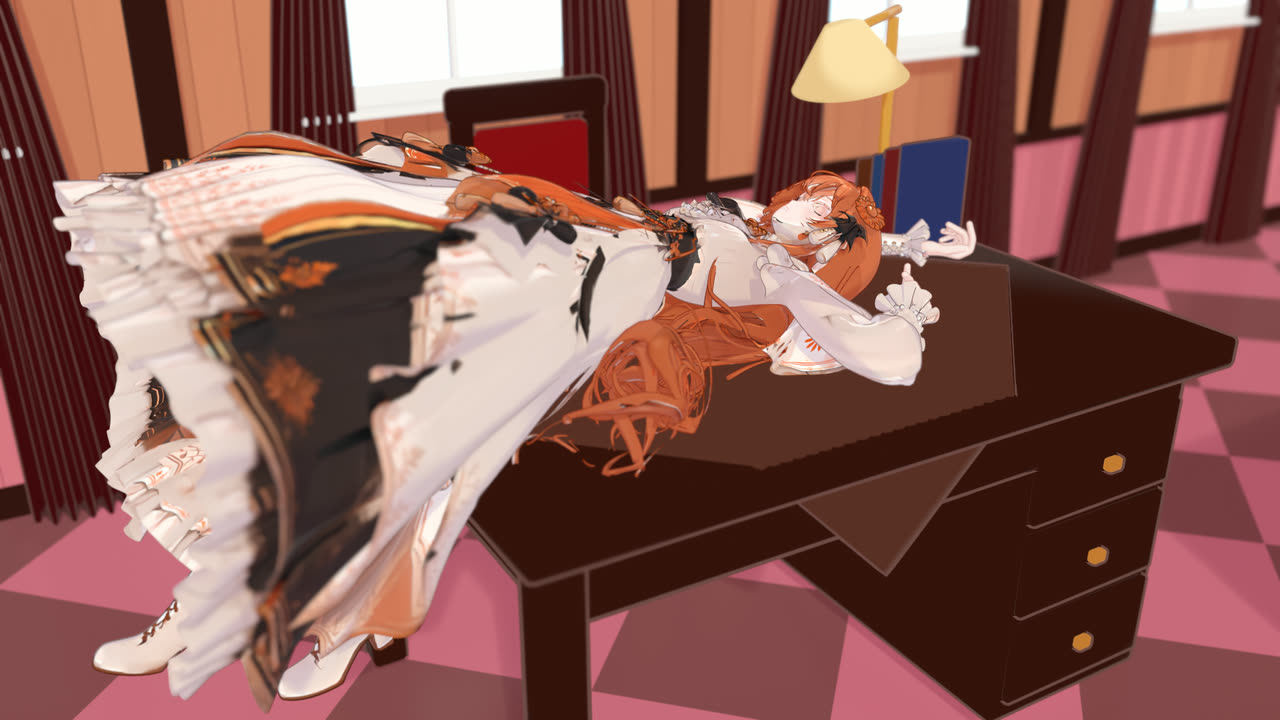
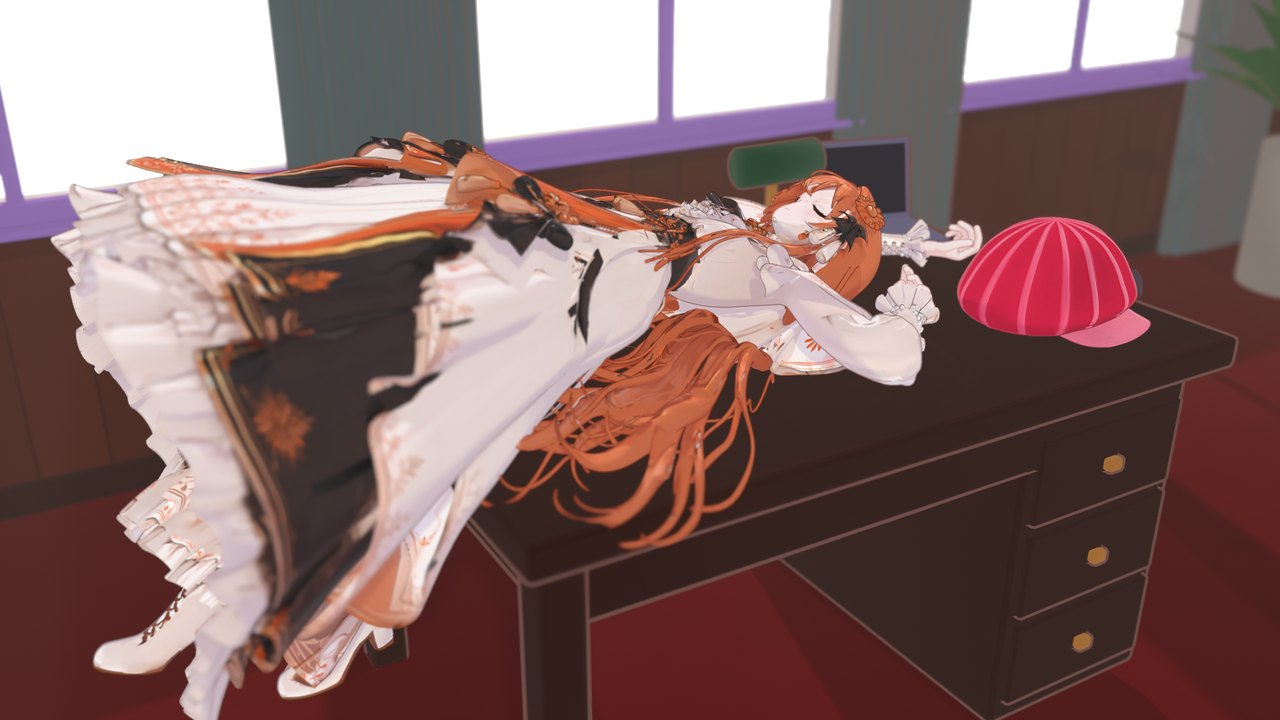
README: the updated Chika Dance (v4) as the demo, v4 stills, a Simplified Chinese README
Claude-Session: https://claude.ai/code/session_01GGEw2pDDRAVnvX8yK2C6bs

diff --git a/README.zh-CN.md b/README.zh-CN.md
@@ -1,0 +1,176 @@
+# mmdance：让任意 Mixamo 骨骼的 Blender 角色跳 MMD
+
+[![tests](https://github.com/starryark/mmdance/actions/workflows/tests.yml/badge.svg)](https://github.com/starryark/mmdance/actions/workflows/tests.yml)
+[![License: MIT](https://img.shields.io/badge/license-MIT-blue.svg)](LICENSE)
+[![Blender 5.2+](https://img.shields.io/badge/Blender-5.2%2B-orange.svg)](https://www.blender.org/)
+[![Python 3.11+](https://img.shields.io/badge/python-3.11%2B-blue.svg)](requirements.txt)
+
+[English](README.md) | **简体中文**
+
+**mmdance 让绑定了 Mixamo 骨骼的角色在 Blender 里跳 MikuMikuDance（MMD）舞蹈。** 它适用于 Tripo、Meshy 等 AI 生成（图生 3D）的角色，Mixamo 和 AccuRig 绑定的角色，也可以通过骨骼名映射用于你自己的骨架。你只需提供角色的 `.blend` 和一套 MMD 动作数据包：VMD 舞蹈动作、VMD 镜头、表情 VMD 和歌曲。它会搭好动画场景，在无界面（headless）模式下按一份配置文件渲染出完整的 1080p 视频。每一步的结果都以其输入为键缓存，重新构建时只重算改动过的部分，其余结果原样复现。
+
+## 演示
+
+https://github.com/user-attachments/assets/532d0b6d-a07f-4ca3-ac91-04a43aa5a862
+
+*[projects/claude_chika_v3](projects/claude_chika_v3)：一个 Tripo 生成的二次元角色身穿多层舞会礼服，跳 akomni 的 MMD 动作《チカっとチカ千花っ♡》（94 秒），使用动作包自带的镜头、表情和歌曲，场景是阳光从窗外照进来的学生会室。`build.py` 从未经改动的角色文件生成整个场景：重定向后的舞蹈、物理模拟的礼服和逐缕模拟的头发、按手绘比例调整指关节的双手、重建为几何体的脸（能张开的嘴、分层的眼睛、由表情轨道驱动的形态键），以及最后被抛向镜头的红帽子。此处为 1080p 渲染的 10 MB 以内压缩版；借物表见 [该项目](projects/claude_chika#credits)。*
+
+| | | |
+| --- | --- | --- |
+| ![Blender 中的 MMD 舞蹈：Tripo 生成的橙色长发二次元角色闭着眼躺在阳光照进的房间里的书桌上唱歌，身旁放着一顶红帽子，白黑相间的多层舞会礼服垂在桌边](docs/media/claude-chika-desk.jpg) | ![使用 Mixamo 骨骼的角色在舞蹈中踢出一条腿并伸手指向前方，模拟的裙摆和外层裙在转身后扬起](docs/media/claude-chika-kick.jpg) | ![舞蹈接近尾声时，角色在阳光照进的房间里双手比心微笑，脸部已重建为几何体，长发垂落在礼服上](docs/media/claude-chika-smile.jpg) |
+
+*开场镜头：躺在书桌上（书桌是布料碰撞体），身旁放着帽子；踢腿时的裙摆物理；结尾的比心，使用重建后的脸。这段视频的第一个版本来自 [projects/claude_chika](projects/claude_chika)（管线的回归基准），见 [0.1.0 版本发布](https://github.com/starryark/mmdance/releases/tag/v0.1.0)。*
+
+### 两个角色、从参考视频解算的镜头：DreamWings
+
+https://github.com/user-attachments/assets/26e7c1ac-1053-4331-812b-8187a1a2b12a
+
+*[projects/dreamwings](projects/dreamwings)：两个 Tripo 生成的角色 Claude 和 ChatGPT 先后登场，在 Anthropic 大厅里跳鸭梨P 的 MMD 动作《梦的翅膀受了伤》（15 秒，即这个梗视频的编舞）。大厅从它自己的 `.blend` 追加进来，并围绕舞蹈缩放。镜头从梗视频的参考视频逐帧解算，连甩镜也一并还原，两位舞者的交接就在一次连续的甩镜之中。两次构建都从未改动的角色文件开始：重定向的舞蹈、物理模拟的礼服、头发、袖子和尾巴、面部表情，以及运动模糊。此处为 1080p 渲染的 10 MB 以内压缩版；借物表见 [该项目](projects/dreamwings#credits-借物表)。*
+
+## 功能
+
+如果你有一个 AI 生成或自动绑定的二次元角色，想让它跳一支 MMD/VMD 舞蹈，这套管线就是为此而做的。它把 MMD 动作重定向到非 MMD 骨架上，加上裙摆和头发物理，驱动面部表情，并用原版镜头和音乐渲染。具体包括：
+
+- **动作重定向。** VMD 通过 mmd_tools 导入到一副按你的骨架比例搭建的代理 MMD 骨架上，再在世界空间中映射到你的骨骼，上臂与前臂共享扭转骨。MMD 的脚部 IK 由解析式的两骨骼腿部 IK 求解。
+- **MMD 镜头**（`camera.vmd`）；原版镜头不适合你的模型时，可以在某些片段换用自定义镜头。
+- **二次动态（物理）**：裙摆、多层礼服和围裙、长发（整片或逐缕）以及尾巴。骨链自动铺设到网格中，用基于位置的求解器模拟：
+  - 带角度限制的关节链，类似 MMD 的刚体裙摆和 DynamicBone；
+  - 根据身体测量生成的胶囊碰撞体；
+  - 家具的盒形碰撞体与非弹性接触。
+
+  结果烘焙为关键帧，最终场景不依赖任何插件。
+- **面部表情**，来自 VMD 的表情（morph）轨道。可以驱动形态键；对于五官*画在贴图上*的脸（图生 3D 角色常见），则用从这张贴图本身生成的表情图集来驱动。
+- **自动绑定网格的修复：**
+  - 根据手指骨骼，把粘连成团的手指重建为真正的手，并把指关节移到手绘的比例；
+  - 把头发从衣服上撕开，修复带着衣服材质的发卷；
+  - 靴子的刚性权重；
+  - 清理左右腿之间串扰的权重；
+  - 没有权重的顶点。
+- **舞台、灯光、渲染**（EEVEE），可断点续渲的并行渲染，以及配上歌曲的视频编码。画面与声音一起淡出。
+  - 从另一个 `.blend` 追加并围绕舞蹈缩放的场景、按轨道文件逐帧驱动的镜头（例如从参考视频解算）、跟随镜头的主光、运动模糊。
+  - 在构建好的角色上运行你自己的项目代码（重建的脸、道具、袖子），多个项目之间按路径共享。
+  - 可拿到云 GPU 上渲染的场景打包副本、把两个角色的渲染剪进同一个视频，以及用于分享的压缩版。
+
+一切都由 `build.py` 从你未经改动的角色文件生成。每个阶段的结果都以输入为键缓存，重新构建时只重算改动过的部分。
+
+## 现状
+它最初只为一个作品而写：一个 Tripo 生成、身高 1 米的卡通角色跳一段 94 秒的 MMD 动作（[projects/claude_chika](projects/claude_chika)；视频见 [0.1.0 版本发布](https://github.com/starryark/mmdance/releases/tag/v0.1.0)）。引擎（重定向、镜头、骨链与物理、面部状态、渲染、编码）是通用的、由配置驱动的，并且至今仍能精确复现那个作品的输出：每一份缓存、面部图集和渲染帧都一致。通用路径也在同一角色上做过冒烟测试：默认舞台、跟随镜头、形态键表情、不做修复、从舞蹈中段开始的帧范围。
+
+此后它又用三个 Tripo 角色、两支舞做了视频。每个新模型都加入了它需要的选项，全部按需开启：
+- [projects/deepseek_chika](projects/deepseek_chika)：一个鲸鱼女仆，有围裙和尾巴，手和脖子共用同一个材质。
+- [projects/chatgpt_chika](projects/chatgpt_chika)：一个龙娘，有翅膀、尾巴和喇叭袖。项目代码模拟袖子并扇动翅膀。
+- [projects/claude_chika_v3](projects/claude_chika_v3)：重做的第一个作品（即上面的演示），头发逐缕模拟、礼服摆动更沉稳、按手绘比例调整指关节，脸重建为几何体。
+- [projects/dreamwings](projects/dreamwings)：第二支舞，一段 15 秒的动捕梗视频。Claude 和 ChatGPT 在从另一个 `.blend` 追加的场景里轮流登场，镜头从参考视频解算而来。
+
+换一套新服装时，要调骨链格点（lattice）的高度和物理参数；换一支新舞，要调头发。面部图集需要为每张手绘的脸测量引导曲线；画在写实雕刻头部上的手绘脸最好重建为几何体（项目代码见 [projects/claude_chika_v3](projects/claude_chika_v3)，尚未成为引擎模式）。房间搭建脚本和镜头解算属于各个项目；从另一个 `.blend` 追加的场景和解算好的镜头轨道则通过配置接入。构建在 Windows 11 + Blender 5.2 上完成。DreamWings 的帧是在 Linux 云 GPU 上，用打包后的构建场景渲染的。
+
+## 环境要求
+- **Blender 5.2+**，并安装 **MMD Tools** 扩展（编辑 › 偏好设置 › 获取扩展 › 搜索 "MMD Tools"；测试版本 4.5.14）。
+- **Python 3.11+**（系统 Python），安装 `numpy scipy opencv-python scikit-image pillow matplotlib`。手部和面部图集的生成（Blender 自带的 Python 缺少这些库）、视频编码和质检都用它运行。
+- **ffmpeg**，需在 `PATH` 中。
+
+```
+pip install -r requirements.txt
+```
+
+## 快速开始
+```
+python -m mmdance new projects/my_dance          # 复制模板
+#   character/  <- 绑好骨骼的 .blend（Mixamo 骨骼名、T-pose、Z 轴向上、面朝 -Y）
+#   source/     <- motion.vmd, camera.vmd, (facial.vmd), song.wav
+python -m mmdance inspect projects/my_dance/character/character.blend   # 检查骨架 + 测量高度 + 参数建议
+#   编辑 projects/my_dance/project.toml
+python -m mmdance build  projects/my_dance/project.toml
+python -m mmdance stills projects/my_dance/project.toml 100,600,1200 cam,front    # 快速检查渲染
+python -m mmdance render projects/my_dance/project.toml --jobs 2
+python -m mmdance encode projects/my_dance/project.toml
+```
+一个项目就是一个 `project.toml`；[mmdance/defaults.toml](mmdance/defaults.toml) 记录了每一个配置项。与本机有关的路径写在旁边的 `project.local.toml` 里：它合并在最上层，并且永远不会提交。完整流程见 [docs/new-character.md](docs/new-character.md)，方法原理见 [docs/how-it-works.md](docs/how-it-works.md)（文档为英文）。
+
+## 目录结构
+| | |
+|---|---|
+| `build.py` | Blender 入口：依次运行 motion → camera → rig → physics → face → stage 各阶段并保存场景 |
+| `mmdance/` | 管线本体：`motion`（重定向）、`camera`、`rig`（骨链、权重、修复）、`layers`（礼服分层）、`physics` + `solver`（模拟与烘焙）、`face` + `face_atlas`、`hands` + `hand_sdf`、`stage`、`encode`、`config`、`vmd`（解析器） |
+| `tools/` | `inspect_character`、`stills`（检查渲染）、`physics_qa`（运动 / 裙摆滞后指标）、`plot_character`、`facial_vmd`（改写表情轨道）、`pack`（拿到别处渲染的副本）、`remote/`（Linux GPU 渲染机） |
+| `projects/template/` | 新项目的起点 |
+| `projects/claude_chika/` | 完整示例：配置、房间舞台搭建脚本、说明和局限 |
+| `projects/deepseek_chika/` | 同一支舞的第二个角色：围裙层、尾巴骨链、共用材质的手、裙摆贴图清理，以及阳光透过窗户照亮的房间 |
+| `projects/chatgpt_chika/` | 第三个角色：翅膀、尾巴和喇叭袖（袖子模拟和扇翅膀由项目代码实现），模型的部件事先做过修复 |
+| `projects/claude_chika_v3/` | 重做的示例，即演示视频：逐缕头发、更沉稳的礼服、指关节、帽子道具，以及重建为几何体的脸（嘴、分层眼睛、形态键） |
+| `projects/dreamwings/` | 第二支舞，两个角色轮流登场，只用配置：从另一个 `.blend` 追加的场景、来自解算轨道的镜头、跟随它的主光、运动模糊，两段渲染剪成一个视频 |
+| `tests/` | 在系统 Python 中运行的单元测试（`python -m unittest`） |
+
+## 素材与许可
+代码采用 MIT 许可。**仓库不包含、也不再分发任何角色、动作或音乐。** 演示视频和 `docs/media` 中的截图是示例项目的渲染结果，仅用于展示管线；其中的动作和歌曲归原作者所有（见 [claude_chika](projects/claude_chika#credits) 和 [dreamwings](projects/dreamwings#credits-借物表) 的借物表）。MMD 动作和歌曲都有作者各自的使用条款：请阅读并遵守，注明作者，并在发布视频前确认是否允许二次创作。`.gitignore` 会把 `.blend`、`.vmd`、音频、视频、图片（docs 截图除外）和缓存挡在仓库之外。
+
+## 常见问题
+
+**如何让 Tripo、Meshy 或 Mixamo 角色在 Blender 里跳 MMD 动作？**
+- **角色：** 导出带 Mixamo 骨骼名的绑定模型，T-pose、Z 轴向上、面朝 -Y，并保存为 `.blend`。
+- **动作：** 准备一套 MMD 动作数据包，包含舞蹈 `.vmd`，最好还有 `camera.vmd`、表情 `.vmd` 和歌曲。
+- **运行：**
+  1. `python -m mmdance new projects/x` 新建项目。
+  2. `python -m mmdance inspect <character.blend>` 检查骨架并给出参数建议。
+  3. `build`、`render` 和 `encode` 生成视频。
+
+  见[完整流程](docs/new-character.md)（英文）。
+
+**VMD 动作能直接驱动非 MMD 模型吗？不用转成 PMX？** 可以，这正是 mmdance 的用途。VMD 由 MMD Tools 在一副按你的骨架关节位置搭建的代理 MMD 骨架上计算，得到的世界空间旋转再相对 MMD 的 A-pose（`motion.arm_angle`，默认 37°）转移到你的骨骼上。MMD 的脚部 IK 用解析式的两骨骼腿部 IK 求解，`motion.scale` 把 MMD 单位换算成米，默认根据腿长自动计算。
+
+**能导入 PMX 或 PMD 模型吗？** 不能。原生 MMD 模型请用 [MMD Tools](https://github.com/MMD-Blender/blender_mmd_tools) 或 [SekaiBlender](https://github.com/ShiJieWorld/SekaiBlender)。mmdance 面向的是*不是* MMD 模型的角色。
+
+**我的骨架不用 Mixamo 骨骼名（VRoid/VRM、Unreal 小白人、自定义骨架）。**
+- 设置 `[bones] prefix`，或在 `[bones.map]` 中把每个 Mixamo 骨骼角色映射到你的骨骼，例如 `Hips = "pelvis"`。
+- 静止姿势必须是面朝 -Y 的 T-pose。
+- 映射的是形变骨骼。Rigify 之类的控制骨架不会被直接驱动。
+
+**怎样给自动绑定的角色加上裙摆、连衣裙或长发物理？**
+- 启用 `[skirt]`、`[overskirt]`（第二层、开襟的礼服外层）和/或 `[hair]`，并给出关节高度（`rows_z`），`inspect` 会给出建议值。
+- 骨链铺设到网格中，用基于位置的求解器模拟（带角度限制的关节链、身体胶囊碰撞体、家具盒形碰撞体），再烘焙为关键帧。
+- 调参方法见[工作原理](docs/how-it-works.md#physics)（英文）。
+
+**怎样从表情 VMD 得到眨眼和口型？**
+- 设 `face.mode = "shapekeys"`，再用 `map` 把 VMD 表情名（まばたき、あ、い、う、え、お、笑い……）映射到你的形态键。
+- 五官画在贴图上的角色（图生 3D 常见）没有形态键。对这类角色，`face.mode = "atlas"` 会从脸部贴图本身生成眨眼、笑和口型的图块。
+- 如果画出的五官叠在一张写实雕刻的脸上（有鼻子、嘴唇、眼窝），雕刻的起伏仍会透过五官显现：描边会勾出它的褶皱。这时应按二次元模型的做法重建脸：几何体的嘴、分层的眼睛和形态键。项目级示例见 [projects/claude_chika_v3](projects/claude_chika_v3)（`face_rebuild.py`），另见 [新角色指南](docs/new-character.md)（英文）。
+- 动捕生成的表情轨道可能有误：有一条把舞者眯眼笑读成了闭眼，90% 的帧都是如此。`python -m mmdance vmd facial.vmd` 会显示每个表情的取值范围以及超过 0.5 的比例。如果与你的角色不符，`python -m mmdance facial` 可以写出一条清理过的轨道。
+
+**能否还原一段舞蹈视频，连参考视频的运镜一起？**
+- `camera.track` 按轨道文件逐帧驱动镜头：一个 `.npz`，包含帧号、位置、四元数、焦距和传感器尺寸。轨道本身在 mmdance 之外解算，例如从参考视频中解算。
+- `camera.track_dancer` 让舞者随之转身：适用于动捕时舞者始终面向镜头、而真实镜头绕着她转的情况。
+- [projects/dreamwings](projects/dreamwings) 就是这样还原了一段 15 秒的梗视频，场景从另一个 `.blend` 追加（`stage.builder = "set"`），并带运动模糊。
+
+**两个角色能出现在同一个视频里吗？** 可以轮流出场。给每个角色各建一个项目，帧范围、镜头和歌曲相同，分别渲染。在负责编码的项目里，`[[encode.parts]]` 从指定帧起切换到另一个项目的帧；DreamWings 就在一次甩镜中途从 Claude 切到 ChatGPT。一次构建只有一个角色，所以不支持两人同时出现在画面中。
+
+**我的角色有翅膀、袖子或尾巴。**
+- 单独成块的尾巴网格会得到一条骨链：`[tail] enabled = true`，`seed` 设为尾巴附近的一点；`sway` 可以在物理之上叠加缓慢的摆尾。
+- 其他部件用在构建好的角色上运行的项目代码实现（`stage.steps`）。[projects/chatgpt_chika](projects/chatgpt_chika) 就是这样模拟喇叭袖（`sleeves.py`）、扇动翅膀（`wings.py`）的，通过 `physics.body_track()` 和 `physics.sim_key()` 读取身体轨迹和模拟结果。
+
+**我生成的角色手指粘成了一团。** `[hands] enabled = true` 会根据手指骨骼，在手部材质槽中重建双手（隐式曲面 + marching cubes），并按关节混合权重。
+
+**输出可以复现吗？** 可以，这是设计目标。每个阶段的结果都以输入为键缓存，重新构建时只重算改动过的部分。参考作品重新构建后得到相同的缓存和相同的帧（GPU 误差 ±1）。`encode` 能从帧逐字节复现已发布的 DreamWings 视频，也能从已发布的视频逐字节复现两个作品的 720p 和 10 MB 压缩版。回归标准见 [AGENTS.md](AGENTS.md)。
+
+**能否在无界面模式、渲染服务器或云 GPU 上运行？** 可以。一切都通过 `blender -b` 运行。构建在 Windows 11 上跑过。EEVEE 渲染在 Windows 11 和 Linux 云 GPU（RunPod 上的 L40S）上都跑过，后者用的是构建场景的打包副本（`python -m mmdance pack`）。Linux 上的无界面 EEVEE 需要显卡驱动的图形库：`tools/remote/setup_linux_gpu.sh` 负责安装，`tools/remote/gpu_check.py` 会告诉你 EEVEE 拿到的是 GPU 还是退回到了软件渲染（`llvmpipe`）。见 [在其他机器上渲染](docs/new-character.md#5-render)（英文）。`render.engine = "CYCLES"` 可以设置但未经测试，示例中的卡通着色器只适用于 EEVEE。
+
+**需要多长时间？** 在开发机上制作 94 秒的 Chika Dance：
+
+| 步骤 | claude_chika | claude_chika_v3（演示） |
+|---|---|---|
+| 首次构建（物理模拟 15–20 分钟） | 约 25 分钟 | 约 28 分钟 |
+| 从缓存重新构建 | 约 4 分钟 | 15–20 分钟（重建脸和房间） |
+| 两个 Blender 进程渲染 1080p | 约 2 小时 | 约 2.5 小时 |
+| 编码 | 不到 1 分钟 | 不到 1 分钟 |
+
+有运动模糊时 EEVEE 受限于 CPU。15 秒的 DreamWings 片段每个 Blender 进程约 21 秒一帧，九个进程共用一张云端 L40S，总共约 50 分钟。
+
+**MMD 动作从哪里来？成品可以发布吗？** 动作作者会在 BowlRoll、niconico 等网站分享动作包，国内作者也常在 bilibili 配布。每个动作包都有自己关于使用、署名和投稿视频的条款。mmdance 不附带任何动作和音乐；发布视频前请先确认条款。
+
+**AI 编程智能体能使用这个仓库吗？** 可以。[AGENTS.md](AGENTS.md) 写明了命令、测试和约定，[llms.txt](llms.txt) 为大语言模型索引了文档。
+
+## 相关项目
+- [MMD Tools](https://github.com/MMD-Blender/blender_mmd_tools)：把 PMX/PMD 模型和 VMD 动作导入 Blender；mmdance 使用它的 VMD 导入器。
+- [CosMMD](https://github.com/CyclopsRay/CosMMD)：一张照片 → Tripo 3D → 一段 12 秒的 MMD 舞蹈片段，由智能体引导。它侧重保留角色外观，没有布料物理、面部表情、镜头和音频。
+- [Blender VMD Retargeting](https://github.com/butaixianran/Blender-Vmd-Retargeting)：把 VMD 身体、表情和镜头动作重定向到 Daz 和 Character Creator 骨架的插件。
+- [SekaiBlender](https://github.com/ShiJieWorld/SekaiBlender)：面向原生 PMX 模型的 Blender 版本，带 MMD IK 和 Bullet 物理。
+- 骨链物理插件（Wiggle、Spring Bones 等）提供交互式的二次动态。mmdance 自行烘焙模拟，因此构建可复现、可在无界面模式下运行。

diff --git a/README.md b/README.md
@@ -5,6 +5,8 @@
 [![Blender 5.2+](https://img.shields.io/badge/Blender-5.2%2B-orange.svg)](https://www.blender.org/)
 [![Python 3.11+](https://img.shields.io/badge/python-3.11%2B-blue.svg)](requirements.txt)
 
+**English** | [简体中文](README.zh-CN.md)
+
 **mmdance makes a Mixamo-rigged character perform a MikuMikuDance (MMD) dance in Blender.** It
 works with AI-generated (image-to-3D) characters from Tripo or Meshy, with Mixamo and AccuRig
 rigs, or with your own rig mapped by bone name. You give it the character's `.blend` and an MMD
@@ -15,6 +17,28 @@ rest.
 
 ## Demo
 
+https://github.com/user-attachments/assets/532d0b6d-a07f-4ca3-ac91-04a43aa5a862
+
+*[projects/claude_chika_v3](projects/claude_chika_v3): a Tripo-generated anime character in a
+layered ball gown dances akomni's MMD motion チカっとチカ千花っ♡ (94 s) with the package's camera,
+facial track and song, in a student-council room lit by the sun through its windows. `build.py`
+makes the whole scene from the untouched character file: the retargeted dance, the gown and the
+hair simulated lock by lock, hands with drawn-hand finger joints, a face rebuilt as geometry (a
+mouth that opens, eyes in layers, shape keys keyed from the facial track) and the red cap thrown
+into the lens. Shown as an under-10 MB copy of the 1080p render; credits in
+[the project](projects/claude_chika#credits).*
+
+| | | |
+| --- | --- | --- |
+| ![MMD dance in Blender: a Tripo-generated anime character with long orange hair lies across a desk in a sunlit room, singing with her eyes closed, a red cap beside her and her white and black layered ball gown draped over the desk edge](docs/media/claude-chika-desk.jpg) | ![The Mixamo-rigged character kicks one leg out and points mid-dance while the simulated skirt and overskirt flare out behind the turn](docs/media/claude-chika-kick.jpg) | ![Near the end of the dance the character makes a heart with her hands and smiles in the sunlit room, her face rebuilt as geometry, long hair falling over the gown](docs/media/claude-chika-smile.jpg) |
+
+*The opening shot, on the desk (a cloth collider) with the cap; skirt physics on a kick; the
+closing heart, with the rebuilt face. The first version of this video, from
+[projects/claude_chika](projects/claude_chika) (the pipeline's regression standard), is in the
+[0.1.0 release](https://github.com/starryark/mmdance/releases/tag/v0.1.0).*
+
+### Two characters, a camera from the reference video: DreamWings
+
 https://github.com/user-attachments/assets/26e7c1ac-1053-4331-812b-8187a1a2b12a
 
 *[projects/dreamwings](projects/dreamwings): two Tripo-generated characters, Claude and then
@@ -24,24 +48,6 @@ solved frame by frame from the meme's reference video, whip pans and all, and th
 the two dancers is one continuous whip. Both builds start from the untouched character files: the
 retargeted dance, the simulated gowns, hair, sleeves and tail, the faces, and the motion blur. Shown
 as an under-10 MB copy of the 1080p render; credits in [the project](projects/dreamwings#credits-借物表).*
-
-### The first production: Chika Dance
-
-https://github.com/user-attachments/assets/e68a693f-9448-4adc-9f07-b09c7fcc77f6
-
-*[projects/claude_chika](projects/claude_chika), the production mmdance was built for: a
-Tripo-generated anime character in a layered ball gown dances akomni's MMD motion
-チカっとチカ千花っ♡ (94 s), with the package's camera, facial track and song, in a rebuilt
-student-council room. `build.py` makes the whole scene from the untouched character file: the
-retargeted dance, the simulated gown and hair, the face and the stage. Shown here as a 10 MB 720p
-copy of the 1080p render.*
-
-| | | |
-| --- | --- | --- |
-| ![MMD dance in Blender: a Tripo-generated anime character with long orange hair lies across a desk in a red-curtained room, her white and black layered ball gown draped over the desk edge](docs/media/claude-chika-desk.jpg) | ![The Mixamo-rigged character kicks one leg out and points mid-dance while the simulated skirt and overskirt flare out behind the turn](docs/media/claude-chika-kick.jpg) | ![Near the end of the dance the character smiles with her eyes closed, an expression drawn by the painted-face atlas, long hair falling over the gown](docs/media/claude-chika-smile.jpg) |
-
-*The opening shot, on the desk (a cloth collider); skirt physics on a kick; a smile from the
-painted-face expression atlas.*
 
 ## What it does
 
@@ -85,13 +91,14 @@ Everything is generated from your untouched character file by `build.py`. Every 
 results, keyed by its inputs, so a rebuild only recomputes what changed.
 
 ## Status
-This was built for one production: a Tripo-generated 1 m toon character dancing a 94 s MMD motion
-([projects/claude_chika](projects/claude_chika), the [Chika Dance
-video](#the-first-production-chika-dance) above). The engine (retargeting, camera, chains and
-physics, face states, render, encode) is generic and config-driven, and it reproduces that
-production's output exactly: every cache, the face atlases and the rendered frames match. The
-generic path was also smoke-tested on the same character: the default stage, a follow camera,
-shape-key faces, no repairs, and a range starting mid-dance.
+It was built for one production: a Tripo-generated 1 m toon character dancing a 94 s MMD motion
+([projects/claude_chika](projects/claude_chika); its video is in the
+[0.1.0 release](https://github.com/starryark/mmdance/releases/tag/v0.1.0)). The engine
+(retargeting, camera, chains and physics, face states, render, encode) is generic and
+config-driven, and it still reproduces that production's output exactly: every cache, the face
+atlases and the rendered frames match. The generic path was also smoke-tested on the same
+character: the default stage, a follow camera, shape-key faces, no repairs, and a range starting
+mid-dance.
 
 Since then it has made videos with three Tripo characters and two dances. Each new mesh added the
 options it needed, all opt-in:
@@ -99,8 +106,9 @@ options it needed, all opt-in:
   hands that share their material with her neck.
 - [projects/chatgpt_chika](projects/chatgpt_chika): a dragon woman with wings, a tail and bell
   sleeves. Project code simulates the sleeves and beats the wings.
-- [projects/claude_chika_v3](projects/claude_chika_v3): the first production redone, with hair
-  per lock, a calmer gown, drawn-hand finger joints and a face rebuilt as geometry.
+- [projects/claude_chika_v3](projects/claude_chika_v3): the first production redone (the demo
+  above), with hair per lock, a calmer gown, drawn-hand finger joints and a face rebuilt as
+  geometry.
 - [projects/dreamwings](projects/dreamwings): a second dance, a 15 s motion-capture meme. Claude
   and ChatGPT take turns on a set appended from another `.blend`, filmed by a camera solved from
   the reference video.
@@ -108,9 +116,10 @@ options it needed, all opt-in:
 Expect to tune the lattice heights and physics for a new outfit, and the hair for a new dance.
 The face atlas needs measured guide curves for each painted face; a painted face on a sculpted
 head is better rebuilt as geometry (project code in
-[projects/claude_chika_v3](projects/claude_chika_v3), not yet an engine mode). Stage builders,
-sets and solved cameras are per project. Builds were run on Windows 11 with Blender 5.2. The
-DreamWings frames were rendered on Linux, on a cloud GPU, from packed copies of the built scenes.
+[projects/claude_chika_v3](projects/claude_chika_v3), not yet an engine mode). Room builders and
+camera solves are per project; a set from another `.blend` and a solved camera track plug in
+through config. Builds were run on Windows 11 with Blender 5.2. The DreamWings frames were
+rendered on Linux, on a cloud GPU, from packed copies of the built scenes.
 
 ## Requirements
 - **Blender 5.2+** with the **MMD Tools** extension (Edit › Preferences › Get Extensions ›
@@ -150,7 +159,7 @@ committed. See [docs/new-character.md](docs/new-character.md) for the walkthroug
 | `projects/claude_chika/` | The full example: config, the room stage builder, notes and limits |
 | `projects/deepseek_chika/` | A second character on the same dance: apron layer, tail chain, shared-material hands, a skirt texture cleanup, and the room lit by sunlight through its windows |
 | `projects/chatgpt_chika/` | A third character: wings, tail and bell sleeves (sleeve simulation and wing beat as project code), on a model whose parts were repaired first |
-| `projects/claude_chika_v3/` | The example redone: hair per lock, a calmer gown, finger joints, the cap prop, and the face rebuilt as geometry (mouth, layered eyes, shape keys) |
+| `projects/claude_chika_v3/` | The example redone, shown in the demo: hair per lock, a calmer gown, finger joints, the cap prop, and the face rebuilt as geometry (mouth, layered eyes, shape keys) |
 | `projects/dreamwings/` | A second dance with two characters taking turns, config only: a set appended from another `.blend`, a camera from a solved track, a key light following it, motion blur, the two renders cut into one video |
 | `tests/` | Unit tests that run in system Python (`python -m unittest`) |
 
@@ -214,7 +223,8 @@ No. For native MMD models use [MMD Tools](https://github.com/MMD-Blender/blender
   [a new character](docs/new-character.md).
 - Facial tracks made from motion capture can be wrong. One read the dancer's squinting grin as
   closed eyes on 90 % of its frames. `python -m mmdance vmd facial.vmd` shows each morph's range
-  and how often it is above 0.5; write a cleaned track if it doesn't fit your character.
+  and how often it is above 0.5. If it doesn't fit your character, `python -m mmdance facial`
+  writes a cleaned track.
 
 **The MMD camera clips into my character or frames it badly.**
 Add `[[camera.shots]]`: a camera of your own over a frame range, which replaces the MMD camera
@@ -266,14 +276,14 @@ whether EEVEE got the GPU or fell back to software (`llvmpipe`). See
 untested, and the example's toon shaders are EEVEE-only.
 
 **How long does it take?**
-For the 94 s example on the development machine:
+For the 94 s Chika Dance on the development machine:
 
-| Step | Time |
-|---|---|
-| First build (physics simulation 15–20 min) | about 25 min |
-| Rebuild from cache | about 4 min |
-| Render at 1080p with two Blender processes | about 2 h |
-| Encode | under a minute |
+| Step | claude_chika | claude_chika_v3 (the demo) |
+|---|---|---|
+| First build (physics simulation 15–20 min) | about 25 min | about 28 min |
+| Rebuild from cache | about 4 min | 15–20 min (the face rebuild and the room) |
+| Render at 1080p with two Blender processes | about 2 h | about 2.5 h |
+| Encode | under a minute | under a minute |
 
 Motion blur makes EEVEE CPU-bound. The 15 s DreamWings clip took about 21 s a frame per Blender
 process, and about 50 minutes with nine processes sharing one cloud L40S.

diff --git a/docs/index.md b/docs/index.md
@@ -15,11 +15,13 @@ and every step is cached by its inputs, so a production rebuilds reproducibly. C
 
 [![A Tripo-generated anime character with long orange hair dances an MMD motion in Blender, kicking one leg out while her simulated white and black ball gown flares](media/claude-chika-kick.jpg)](https://github.com/starryark/mmdance#demo)
 
-*The first production: a Tripo-generated character dances a 94 s MMD motion with the
-package's camera, facial track and song, the gown and hair simulated.
-[Watch the demo videos on GitHub](https://github.com/starryark/mmdance#demo): this one, and two
-characters taking turns in a 15 s meme on a set from another `.blend`, filmed by a camera solved
-from the reference video.*
+*Chika Dance: a Tripo-generated character dances a 94 s MMD motion with the package's camera,
+facial track and song; the gown and the hair (lock by lock) are simulated, and the face is rebuilt
+as geometry. [Watch the demo videos on GitHub](https://github.com/starryark/mmdance#demo): this
+one, and two characters taking turns in a 15 s meme on a set from another `.blend`, filmed by a
+camera solved from the reference video.*
+
+中文说明：[README.zh-CN](https://github.com/starryark/mmdance/blob/main/README.zh-CN.md)（简体中文）
 
 ## What it does
 - **VMD → Mixamo retargeting.** MMD Tools evaluates the VMD on a proxy MMD skeleton built at your
